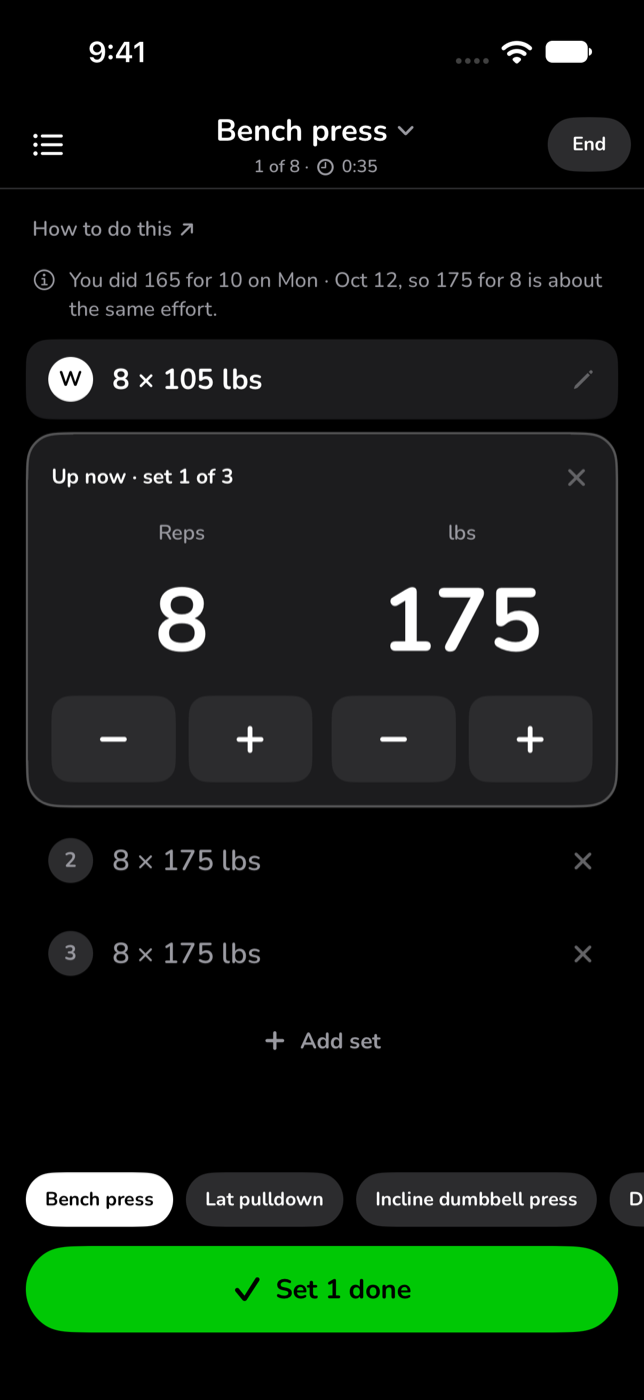
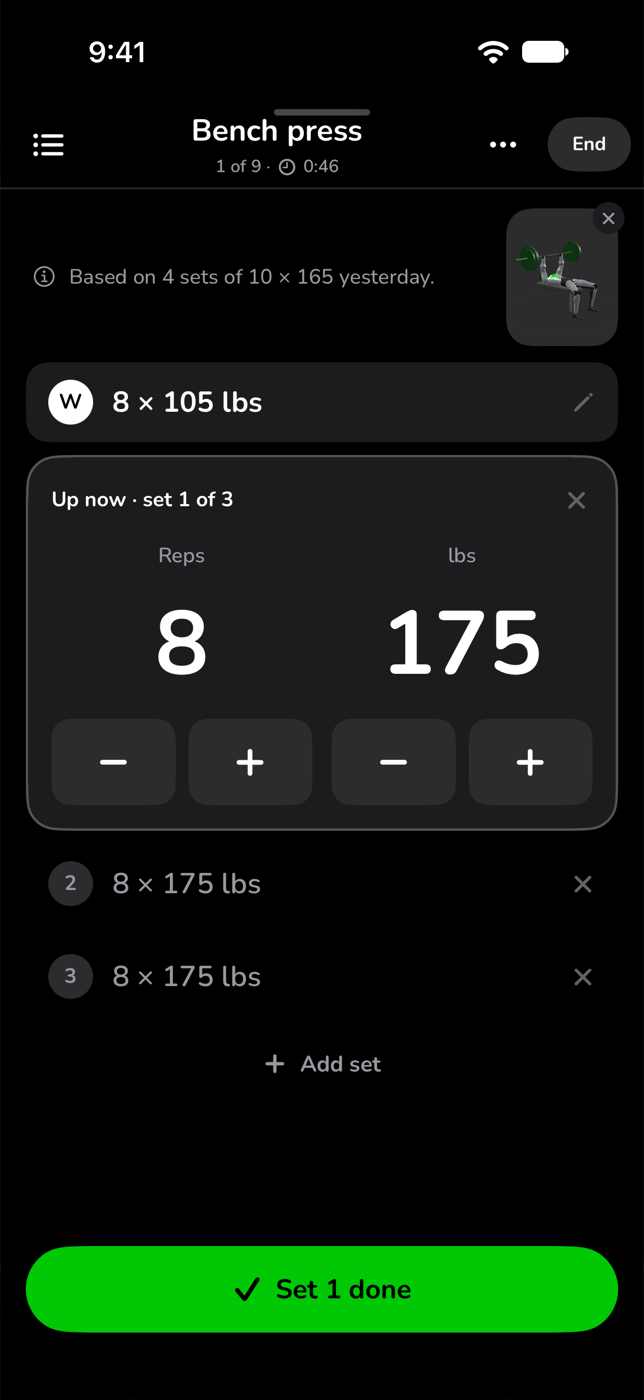
Site: new screenshots from build 107, guides, mobility, setup and history
Claude-Session: https://claude.ai/code/session_01XRJJVSFoXR2J7bjBJCzfiK

diff --git a/index.html b/index.html
@@ -42,7 +42,7 @@ section { padding: 56px 0 0; }
 .three { display: grid; grid-template-columns: repeat(3, 1fr); gap: 16px; margin-top: 26px; }
 .three div { background: var(--card); border-radius: 20px; padding: 22px; }
 .three p { color: var(--sub); margin-top: 6px; font-size: 16px; }
-.shots { display: grid; grid-template-columns: repeat(2, 1fr); gap: 40px; margin-top: 34px; justify-items: center; }
+.shots { display: grid; grid-template-columns: repeat(3, 1fr); gap: 56px 32px; margin-top: 34px; justify-items: center; }
 .shots figure { display: flex; flex-direction: column; align-items: center; gap: 22px; width: 100%; }
 .shots figcaption { max-width: 20em; text-align: center; }
 .shots figcaption p { color: var(--sub); font-size: 16px; margin-top: 4px; }
@@ -62,14 +62,15 @@ tr:nth-child(2) td { padding-top: 16px; }
 .faq p { color: var(--sub); font-size: 16px; margin-top: 6px; }
 footer { margin-top: 64px; padding-top: 16px; border-top: 1px solid var(--line); font-size: 14px; color: var(--sub); display: flex; gap: 18px; flex-wrap: wrap; }
 footer a { color: var(--sub); font-weight: 700; }
+@media (max-width: 1000px) and (min-width: 761px) { .shots { grid-template-columns: repeat(2, 1fr); } }
 @media (max-width: 760px) {
   .hero { grid-template-columns: 1fr; gap: 36px; padding-top: 36px; }
-  .three, .price, .faq { grid-template-columns: 1fr; }
-  .shots { grid-template-columns: 1fr; gap: 48px; }
+  .three, .price, .faq, .shots { grid-template-columns: 1fr; }
+  .shots { gap: 48px; }
   .phone { max-width: 250px; }
 }
 </style>
-<script type="application/ld+json">{"@context": "https://schema.org", "@type": "FAQPage", "mainEntity": [{"@type": "Question", "name": "Do I need an Apple Watch?", "acceptedAnswer": {"@type": "Answer", "text": "No. Everything works on the iPhone alone, including logging from the lock screen. If you have an Apple Watch you can also log from your wrist, and hebomb records your heart rate while you train."}}, {"@type": "Question", "name": "Is it really free?", "acceptedAnswer": {"@type": "Answer", "text": "Yes. Everyone who downloads hebomb during the launch gets all of it, Pro included, free for as long as they use the app. Nothing to sign up for and no card: it switches on by itself, and it comes back if you delete the app and download it again."}}, {"@type": "Question", "name": "Do I need an account?", "acceptedAnswer": {"@type": "Answer", "text": "No. There is no sign-up, no email and no password. Open the app and start."}}, {"@type": "Question", "name": "Where is my data kept?", "acceptedAnswer": {"@type": "Answer", "text": "On your phone, and nowhere else. We never receive it. It is included in your usual iPhone backup, and you can save a backup file of your own from Settings whenever you like."}}, {"@type": "Question", "name": "I am new to lifting. Is it for me?", "acceptedAnswer": {"@type": "Answer", "text": "Yes. Your first workout is a short, light one that finds your starting point, and from then on hebomb tells you which workout to do and what weight to use for each set. It is not medical advice, so check with a doctor before you start."}}, {"@type": "Question", "name": "Is there an Android version?", "acceptedAnswer": {"@type": "Answer", "text": "Not at the moment. hebomb is for iPhone and Apple Watch."}}]}</script>
+<script type="application/ld+json">{"@context": "https://schema.org", "@type": "FAQPage", "mainEntity": [{"@type": "Question", "name": "Do I need an Apple Watch?", "acceptedAnswer": {"@type": "Answer", "text": "No. Everything works on the iPhone alone, including logging from the lock screen. If you have an Apple Watch you can also log from your wrist, and hebomb records your heart rate while you train."}}, {"@type": "Question", "name": "Is it really free?", "acceptedAnswer": {"@type": "Answer", "text": "Yes. Everyone who downloads hebomb during the launch gets all of it, Pro included, free for as long as they use the app. Nothing to sign up for and no card: it switches on by itself, and it comes back if you delete the app and download it again."}}, {"@type": "Question", "name": "Do I need an account?", "acceptedAnswer": {"@type": "Answer", "text": "No. There is no sign-up, no email and no password. Open the app and start."}}, {"@type": "Question", "name": "Where is my data kept?", "acceptedAnswer": {"@type": "Answer", "text": "On your phone, and nowhere else. We never receive it. It is included in your usual iPhone backup, and you can save a backup file of your own from Settings whenever you like."}}, {"@type": "Question", "name": "I am new to lifting. Is it for me?", "acceptedAnswer": {"@type": "Answer", "text": "Yes. Setup asks how long you have been lifting, and beginners start light on lifts that are easy to learn. Your first workout finds your starting point, every lift has a guide showing how to do it, and from then on hebomb tells you which workout to do and what weight to use for each set. It is not medical advice, so check with a doctor before you start."}}, {"@type": "Question", "name": "Is there an Android version?", "acceptedAnswer": {"@type": "Answer", "text": "Not at the moment. hebomb is for iPhone and Apple Watch."}}]}</script>
 </head>
 <body>
 <main>
@@ -94,6 +95,9 @@ footer a { color: var(--sub); font-weight: 700; }
       <div><h3>It decides, you lift</h3><p>It suggests the workout whose muscles have rested longest, so you never stand in the gym wondering what to do.</p></div>
       <div><h3>The right weight, every set</h3><p>Targets come from what you have actually been lifting, and go up after a clean session. Each one says why.</p></div>
       <div><h3>One tap per set</h3><p>Log from the lock screen or your Apple Watch, with the rest timer already running. The phone stays in your pocket.</p></div>
+      <div><h3>Shows you how</h3><p>Every lift is a 3D figure you can turn and slow down, step by step, with the muscles it works.</p></div>
+      <div><h3>Starts where you are</h3><p>Setup asks how long you have been lifting. Beginners start light, and your first workout finds your starting weights.</p></div>
+      <div><h3>More than lifting</h3><p>Runs, rides, games and short mobility flows go on the same calendar, tracked by your Apple Watch if you wear one.</p></div>
     </div>
   </section>
 
@@ -101,11 +105,27 @@ footer a { color: var(--sub); font-weight: 700; }
     <div class="shots">
       <figure>
         <span class="phone" role="img" aria-label="A workout in progress, showing the target weight and reps for the set" style="background-image:url(img/workout.png)"></span>
-        <figcaption><h3>In the gym</h3><p>The set that is up, what to lift, and how long to rest.</p></figcaption>
+        <figcaption><h3>In the gym</h3><p>The set that is up and what to lift. Tap when it is done.</p></figcaption>
+      </figure>
+      <figure>
+        <span class="phone" role="img" aria-label="The rest timer, with the next set and a preview of the lift after this one" style="background-image:url(img/rest.png)"></span>
+        <figcaption><h3>Between sets</h3><p>The rest timer, your next set, and a look at the lift that comes after this one.</p></figcaption>
+      </figure>
+      <figure>
+        <span class="phone" role="img" aria-label="A 3D figure doing a bench press, with the step it is on" style="background-image:url(img/howto.png)"></span>
+        <figcaption><h3>How to do it</h3><p>Turn the figure to any angle, slow it down, and follow the steps.</p></figcaption>
+      </figure>
+      <figure>
+        <span class="phone" role="img" aria-label="A mobility flow, with a figure showing arm swings and a 30 second timer" style="background-image:url(img/mobility.png)"></span>
+        <figcaption><h3>Mobility</h3><p>Five flows of five to seven minutes, every move shown and timed.</p></figcaption>
       </figure>
       <figure>
         <span class="phone" role="img" aria-label="The Stats page, with one strength number charted over time" style="background-image:url(img/stats.png)"></span>
         <figcaption><h3>Afterwards</h3><p>One strength number and a chart for every lift, so you can see whether it is working.</p></figcaption>
+      </figure>
+      <figure>
+        <span class="phone" role="img" aria-label="The History page, a calendar of workouts with a run and its route below" style="background-image:url(img/history.png)"></span>
+        <figcaption><h3>Every workout</h3><p>Lifting, cardio and sport on one calendar, with the route of every run.</p></figcaption>
       </figure>
     </div>
   </section>
@@ -121,6 +141,8 @@ footer a { color: var(--sub); font-weight: 700; }
       <table>
         <tr><th>What is included</th><th class="pro">Yours</th></tr>
         <tr><td>Log lifting, cardio and sport</td><td><span class="c pro" aria-label="Included">&#10003;</span></td></tr>
+        <tr><td>A 3D guide for every lift</td><td><span class="c pro" aria-label="Included">&#10003;</span></td></tr>
+        <tr><td>Mobility flows</td><td><span class="c pro" aria-label="Included">&#10003;</span></td></tr>
         <tr><td>Charts for every lift</td><td><span class="c pro" aria-label="Included">&#10003;</span></td></tr>
         <tr><td>Lock screen and watch logging</td><td><span class="c pro" aria-label="Included">&#10003;</span></td></tr>
         <tr><td>Apple Health</td><td><span class="c pro" aria-label="Included">&#10003;</span></td></tr>
@@ -140,7 +162,7 @@ footer a { color: var(--sub); font-weight: 700; }
       <div><h3>Is it really free?</h3><p>Yes. Everyone who downloads hebomb during the launch gets all of it, Pro included, free for as long as they use the app. Nothing to sign up for and no card: it switches on by itself, and it comes back if you delete the app and download it again.</p></div>
       <div><h3>Do I need an account?</h3><p>No. There is no sign-up, no email and no password. Open the app and start.</p></div>
       <div><h3>Where is my data kept?</h3><p>On your phone, and nowhere else. We never receive it. It is included in your usual iPhone backup, and you can save a backup file of your own from Settings whenever you like.</p></div>
-      <div><h3>I am new to lifting. Is it for me?</h3><p>Yes. Your first workout is a short, light one that finds your starting point, and from then on hebomb tells you which workout to do and what weight to use for each set. It is not medical advice, so check with a doctor before you start.</p></div>
+      <div><h3>I am new to lifting. Is it for me?</h3><p>Yes. Setup asks how long you have been lifting, and beginners start light on lifts that are easy to learn. Your first workout finds your starting point, every lift has a guide showing how to do it, and from then on hebomb tells you which workout to do and what weight to use for each set. It is not medical advice, so check with a doctor before you start.</p></div>
       <div><h3>Is there an Android version?</h3><p>Not at the moment. hebomb is for iPhone and Apple Watch.</p></div>
     </div>
   </section>
